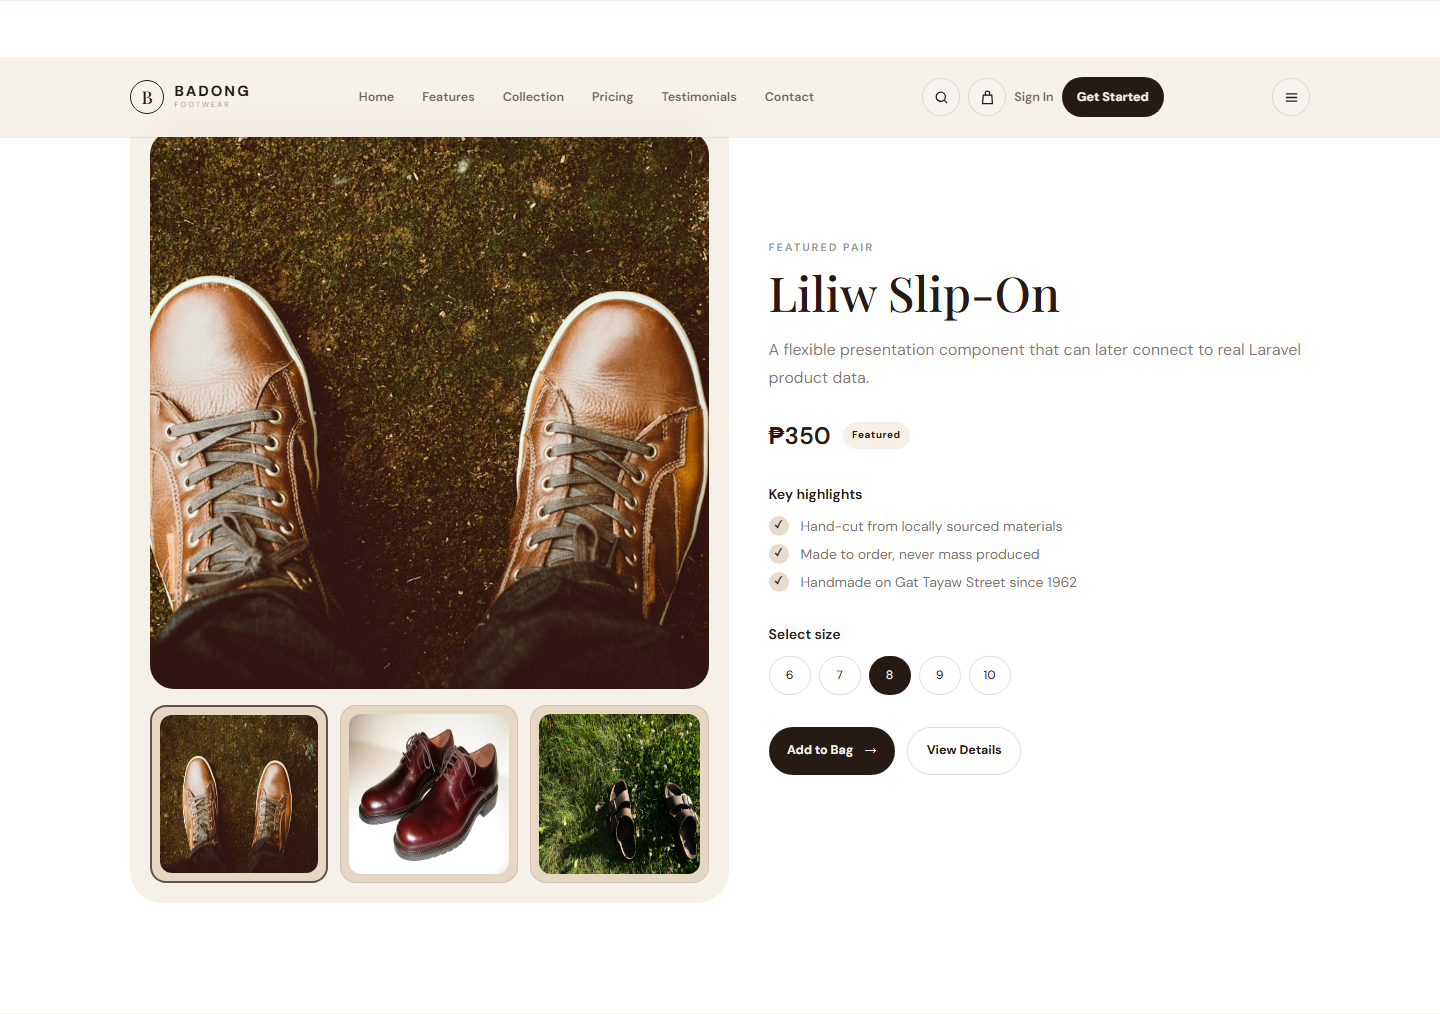
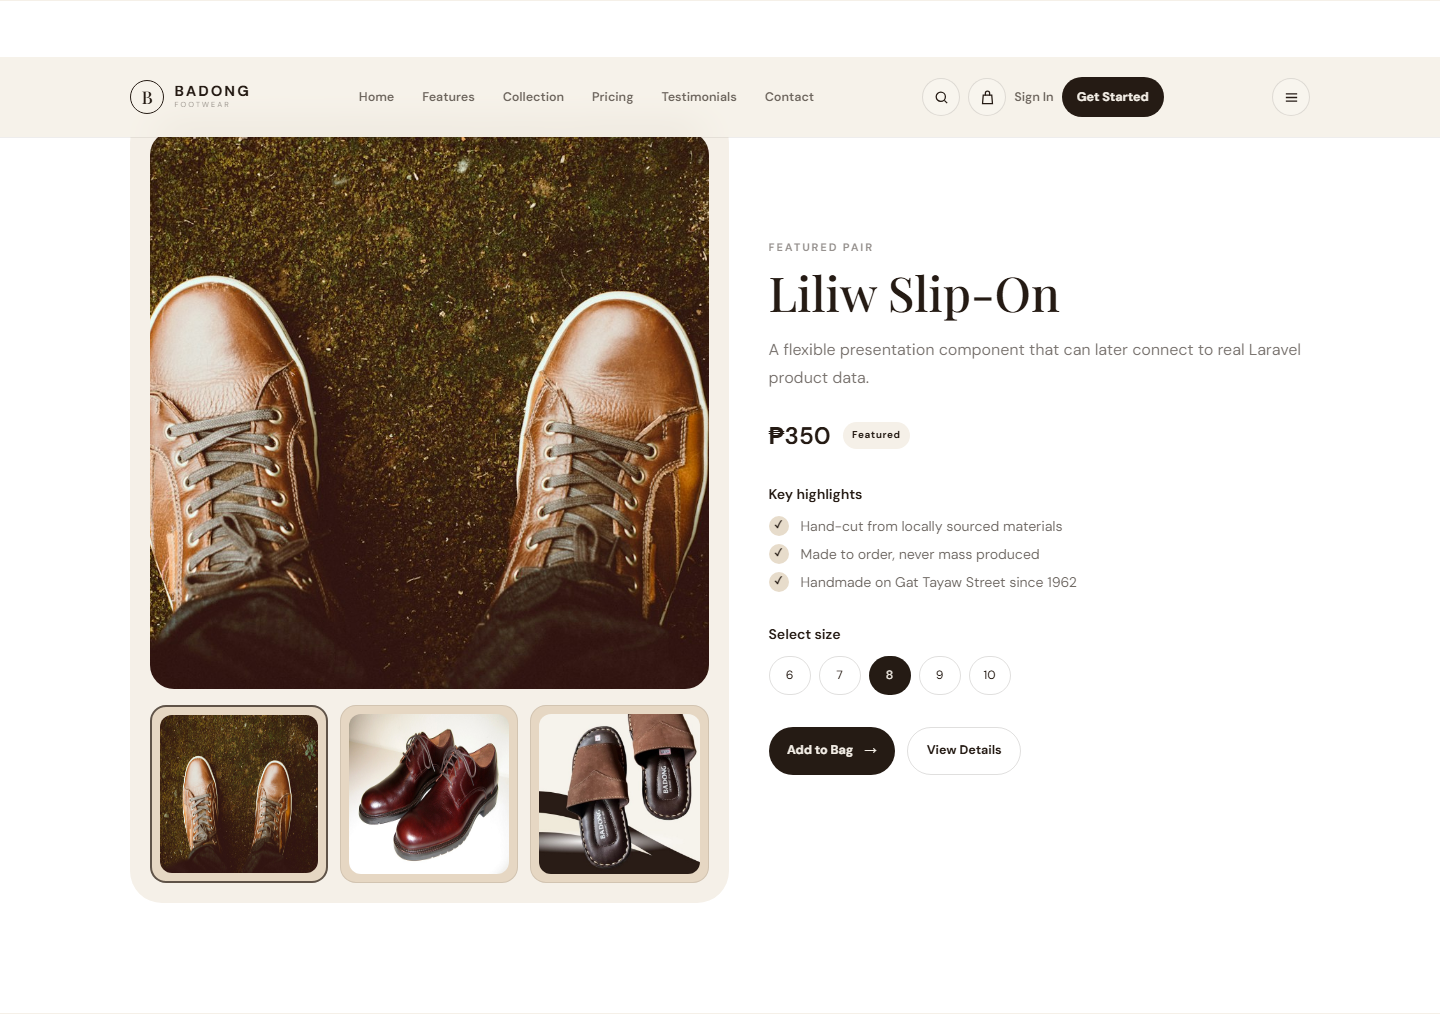
feat: add real Badong Footwear product photos
Replace the hero image, Heritage Sandal product photo, and the
Sandals/Heritage Styles category tiles with genuine Badong Footwear
photos (visible "BADONG GENUINE LEATHER" branding on the insoles),
supplied directly by the project owner from their own saved photos
of the shop's products. Cropped a stray promotional text fragment
("FOR MEN") off the top of the sandal photo used for the hero and
main product shot. Documented the real vs. stock photo split in the
README's Product Photography section, and re-captured screenshots
against the updated page.

diff --git a/resources/views/components/hero.blade.php b/resources/views/components/hero.blade.php
@@ -34,7 +34,7 @@
 
         <div class="relative reveal hero-product">
             <div class="hero-card">
-                <img src="/images/hero-shoe.jpg" alt="Pair of handmade brown leather shoes" class="h-full w-full object-cover">
+                <img src="/images/hero-shoe.jpg" alt="Real Badong Footwear brown leather slide sandal" class="h-full w-full object-cover">
             </div>
             <div class="floating-note floating-note-top">
                 <span class="floating-icon">01</span>

diff --git a/README.md b/README.md
@@ -238,20 +238,28 @@ The historical and factual details used to replace generic placeholder copy (fou
 
 ## Product Photography
 
-The product and category images are **real photographs**, not the stylized SVG illustrations the starter kit shipped with — but they are stock/freely-licensed photography of similar footwear, not verified photos of Badong Footwear's own actual inventory (I have no legitimate way to obtain and redistribute the shop's own product photos without their permission). Every photo was checked by hand and any shot showing a visible competing brand name (several early candidates turned out to be branded product photography for other shoe companies) was rejected before use.
+The product and category images are **real photographs**, not the stylized SVG illustrations the starter kit shipped with. Two sources are mixed here:
+
+**Genuine Badong Footwear photos** — the hero image, the Heritage Sandal product, and the Sandals/Heritage Styles category tiles now use real photos of actual Badong Footwear stock (visible "BADONG GENUINE LEATHER" branding on the insoles), supplied directly by the project owner from their own saved photos of the shop's products.
+
+| File | Subject | Source |
+|---|---|---|
+| `shoe-3.jpg`, `hero-shoe.jpg`, `category-heritage.jpg` | Real Badong Footwear leather slide sandals (brown/black) | Supplied by the project owner |
+| `category-sandals.jpg` | Real Badong Footwear embellished sandal (promotional shot) | Supplied by the project owner |
+
+**Stock photography** — for the products and categories no real photo was available for (slip-ons, dress shoes, slippers), freely-licensed stock photos of similar, unrelated footwear fill in as placeholders. Every candidate was checked by hand first; several early picks were rejected because they turned out to be branded product photography for other shoe companies (Barker, Grant Stone, Helmsman) visible on the insole.
 
 | File | Subject | Photographer | Source | License |
 |---|---|---|---|---|
-| `shoe-1.jpg`, `hero-shoe.jpg`, `category-casual.jpg` | Brown leather lace-up boots | Bruno Nascimento | [Unsplash](https://unsplash.com/photos/person-wearing-brown-leather-shoes-xhthZII8yoE) | Unsplash License (free, commercial use OK) |
-| `shoe-2.jpg`, `category-heritage.jpg` | Brown derby leather dress shoes | Ch Th Jo | [Wikimedia Commons](https://commons.wikimedia.org/wiki/File:Mens_brown_derby_leather_shoes.jpg) | CC BY-SA 3.0 — **requires attribution** and share-alike on reuse |
-| `shoe-3.jpg`, `category-sandals.jpg` | Buckled leather sandals | Stephanie Hau | [Unsplash](https://unsplash.com/photos/black-and-brown-leather-sandals-on-green-grass-sNkpa8TLeFs) | Unsplash License (free, commercial use OK) |
+| `shoe-1.jpg`, `category-casual.jpg` | Brown leather lace-up boots | Bruno Nascimento | [Unsplash](https://unsplash.com/photos/person-wearing-brown-leather-shoes-xhthZII8yoE) | Unsplash License (free, commercial use OK) |
+| `shoe-2.jpg` | Brown derby leather dress shoes | Ch Th Jo | [Wikimedia Commons](https://commons.wikimedia.org/wiki/File:Mens_brown_derby_leather_shoes.jpg) | CC BY-SA 3.0 — **requires attribution** and share-alike on reuse |
 | `category-slippers.jpg` | Striped flip-flops | David Trinks | [Unsplash](https://unsplash.com/photos/a-pair-of-flip-flops-on-the-sand-glfcz6er-nA) | Unsplash License (free, commercial use OK) |
 
 Testimonial avatars (`avatar-1.svg`, `avatar-2.svg`, `avatar-3.svg`) were deliberately **kept as abstract icons**, not swapped for real people's stock photos — the testimonial quotes are fictional placeholder content, and pairing them with a real photographed person's face would misrepresent that individual as a genuine reviewer.
 
 ## Important Content Note
 
-Product names, exact prices, and testimonials on this page are **illustrative example content** for this school project, not verified, official information from Badong Footwear. Before presenting this page as the shop's real website, replace them with real product names, real prices, real product photos, and real customer testimonials obtained with permission.
+Product names, exact prices, and testimonials on this page are **illustrative example content** for this school project, not verified, official information from Badong Footwear. The Heritage Sandal photo, hero image, and two category tiles are now real Badong Footwear product photos — but the names, prices, and "made-to-order" copy paired with them are still this project's own placeholder text, not confirmed against the shop's actual listings. Before presenting this page as the shop's real website, verify product names and prices directly with Badong Footwear, and obtain real customer testimonials with permission.
 
 ---
 
